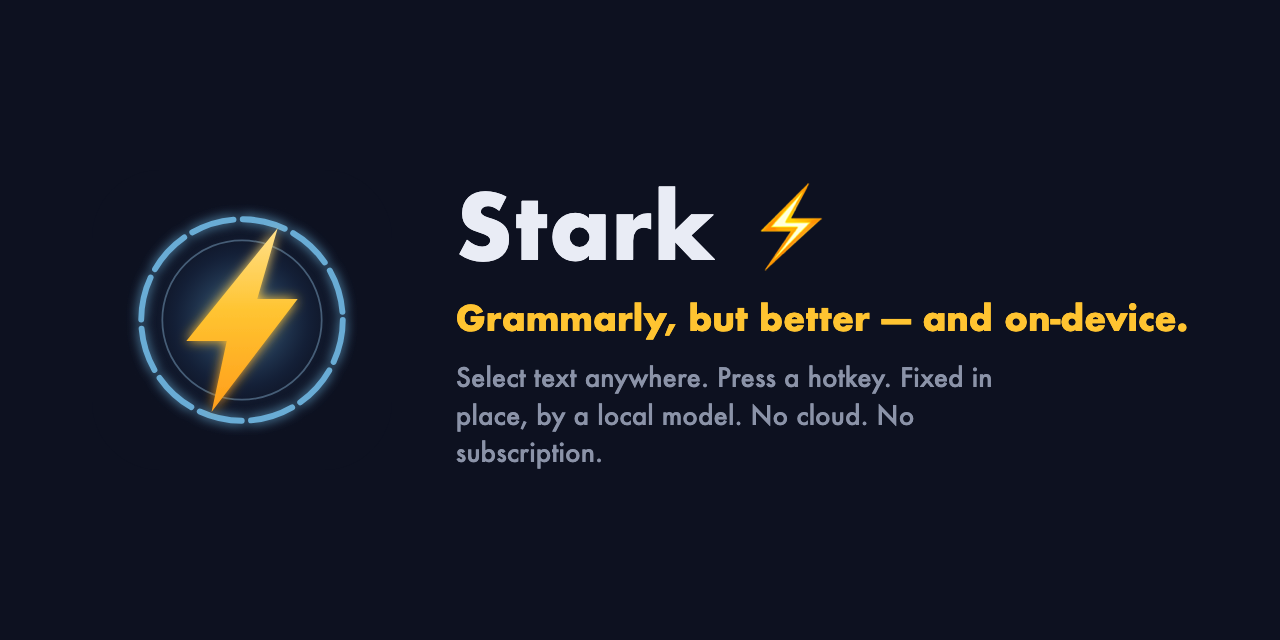
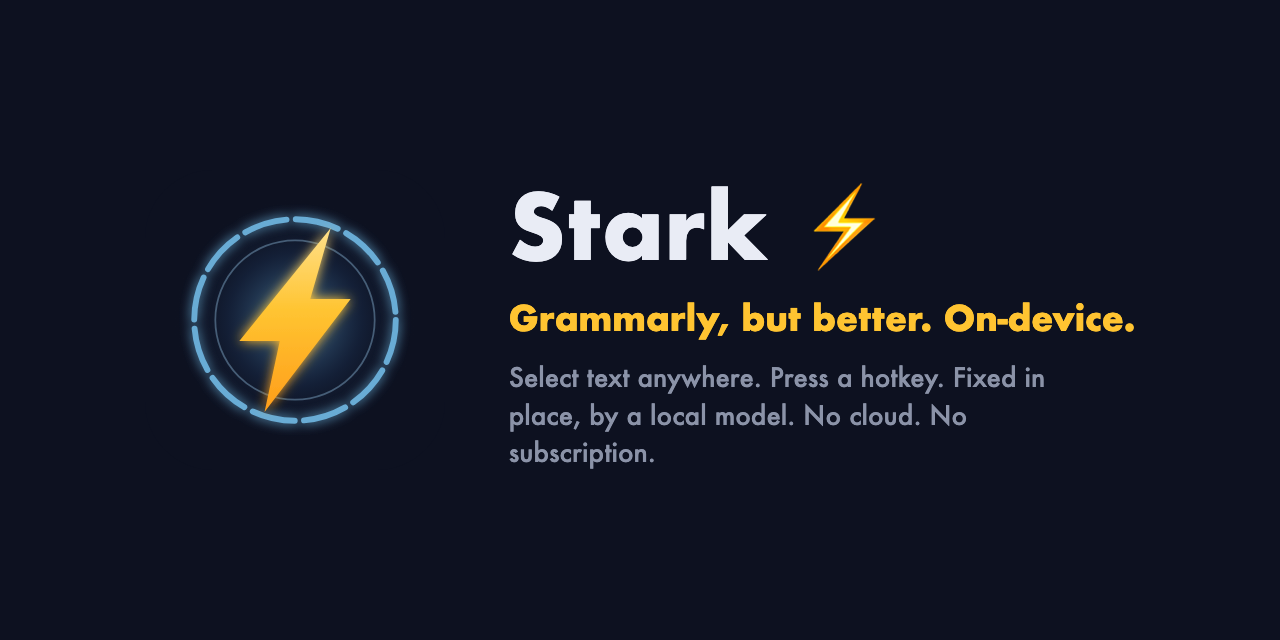
Docs: drop em-dashes, add a few jokes

diff --git a/README.md b/README.md
@@ -1,7 +1,7 @@
 <div align="center">
-  <img src="assets/logo.svg" width="170" alt="Stark logo — a gold bolt inside an arc-reactor ring">
+  <img src="assets/logo.svg" width="170" alt="Stark logo: a gold bolt inside an arc-reactor ring">
   <h1>Stark</h1>
-  <p><b>Grammarly, but better — and it never leaves your Mac.</b></p>
+  <p><b>Grammarly, but better. And it never leaves your Mac.</b></p>
   <p>
     <img alt="macOS 14+" src="https://img.shields.io/badge/macOS-14%2B-0d1120">
     <img alt="Swift" src="https://img.shields.io/badge/Swift-5-F05138?logo=swift&logoColor=white">
@@ -18,10 +18,10 @@ configuration.
 ## Why this exists
 
 Every mainstream writing assistant is a cloud service wearing a local UI. To
-fix a comma, it ships everything you type — investor updates, performance
-reviews, medical questions, the resignation letter you never sent — to
-servers you don't control, keeps it long enough to "improve the service", and
-bills you monthly for the privilege.
+fix a comma, it ships everything you type (investor updates, performance
+reviews, medical questions, the resignation letter you never sent) to servers
+you don't control, keeps it long enough to "improve the service", and bills
+you monthly for the privilege.
 
 A grammar checker shouldn't be a keylogger with good branding.
 
@@ -31,7 +31,7 @@ Stark is the counter-argument:
   Apple silicon, ~1 GB of RAM. Turn the Wi-Fi off; nothing changes.
 - **Instant.** ~0.1 s to first token. The rewrite lands before a cloud
   round-trip would have finished its TLS handshake.
-- **Yours.** MIT app, Apache-2.0 model, fully synthetic seeded dataset — the
+- **Yours.** MIT app, Apache-2.0 model, fully synthetic seeded dataset. The
   whole thing is reproducible end to end on one MacBook.
 - **Free.** Electricity sold separately.
 
@@ -39,13 +39,15 @@ Stark is the counter-argument:
 
 <img src="assets/demo.gif" width="100%" alt="Stark demo: a typo-filled sentence is selected, the hotkey is pressed, and the polished version replaces it in place">
 
-1. **Select text** — in any app.
-2. **Press the hotkey** — default ⌃⌥S, yours to change.
-3. **Done.** The rewrite lands where the text was. Your clipboard is untouched.
+1. **Select text.** Any app.
+2. **Press the hotkey** (default ⌃⌥S, yours to change).
+3. **Done.** The rewrite lands where the text was. Your clipboard is
+   untouched. Your secrets stay unshipped.
 
 Nothing selected? Stark works on your clipboard instead and lets you pick a
-style. First run: allow Accessibility (System Settings → Privacy & Security)
-— that's how the invisible copy/paste happens.
+style. First run: allow Accessibility (System Settings → Privacy & Security),
+which is how the invisible copy/paste happens. It's the only permission Stark
+asks for. There's no network permission because there's no network code.
 
 <details>
 <summary><b>Under the hood</b></summary>
@@ -58,10 +60,10 @@ sequenceDiagram
     participant Model as stark-1.5b<br/>127.0.0.1:8765
 
     You->>App: select text · press the hotkey
-    Stark->>App: invisible ⌘C — captures the selection
+    Stark->>App: invisible ⌘C (captures the selection)
     Stark->>Model: one-word style tag + your text
     Model-->>Stark: the rewrite, streaming
-    Stark->>App: invisible ⌘V — pastes over the selection
+    Stark->>App: invisible ⌘V (pastes over the selection)
     Note over You,Model: Clipboard restored. Nothing left the Mac.
 ```
 
@@ -75,16 +77,16 @@ sequenceDiagram
 | 2 | Concise | says the same thing in fewer words |
 | 3 | Formal | professional tone |
 | 4 | Friendly | warm, casual tone |
-| 5 | Fix typos | spelling only — never rephrases |
+| 5 | Fix typos | spelling only, never rephrases |
 | 6 | Bullets | turns prose into a markdown bullet list |
 | 7 | Prompt enhance | sharpens a vague LLM prompt into a precise one |
-| 8 | Expand | grows a terse note into a fuller message — same meaning, no invented facts |
+| 8 | Expand | grows a terse note into a fuller message: same meaning, no invented facts |
 
-The one-press rewrite uses your default style — pick it in the menu bar →
+The one-press rewrite uses your default style. Pick it in the menu bar →
 **Default Style** (`polish` out of the box). The rest live in the **Rewrite
 As** submenu (also one-shot when text is selected) and in the clipboard-mode
 picker. Styles can follow the app you're in: Slack can default to
-friendly-then-concise, Mail to formal, your editor to typos-only — see
+friendly-then-concise, Mail to formal, your editor to typos-only. See
 personas in the appendix.
 
 ## Suit up
@@ -93,15 +95,15 @@ personas in the appendix.
 git clone https://github.com/YoursSarcastically/stark.git ~/Stark
 cd ~/Stark
 
-# 1. The engine — download the fused model…
+# 1. The engine: download the fused model…
 pip install -U huggingface_hub
 hf download suraj10620/stark-1.5b --local-dir model/stark-1.5b
-#    …or forge your own from scratch (see appendix — one seeded script, ~3 min of training)
+#    …or forge your own from scratch (see appendix; one seeded script, ~3 min of training)
 
-# 2. The suit — build the app (needs Xcode command line tools)
+# 2. The suit: build the app (needs Xcode command line tools)
 cd app && ./make_app.sh
 
-# 3. Ignition
+# 3. Ignition (arc reactor optional; Apple silicon will do)
 open build/Stark.app
 ```
 
@@ -113,22 +115,22 @@ then select some text and press **⌃⌥S**.
 ## Why it's fast and small
 
 - The model is a 4-bit **Qwen2.5-1.5B** with a LoRA fine-tune baked in,
-  trained and fused on a MacBook — about **1 GB of RAM** while running.
+  trained and fused on a MacBook; about **1 GB of RAM** while running.
 - Each style is a **one-word system tag** (`polish`, `concise`, …), so
   there's almost no prompt to process and the model answers with the rewrite
-  only — no "Here's your polished text!" preamble to wait for.
+  only: no "Here's your polished text!" preamble to wait for.
 - The app itself is native Swift, ~400 KB, zero dependencies.
 
-A faster/smaller 0.5B variant is also trained (`model/adapters-0.5b`) — see
+A faster/smaller 0.5B variant is also trained (`model/adapters-0.5b`); see
 the appendix for switching.
 
 ## Where this is going
 
-Signed releases, custom user-trained styles, translate/summarize, a CLI —
+Signed releases, custom user-trained styles, translate/summarize, a CLI:
 the plan lives in [ROADMAP.md](ROADMAP.md).
 
 <details>
-<summary><b>Appendix — technical details</b></summary>
+<summary><b>Appendix: technical details</b></summary>
 
 ### Layout
 
@@ -143,7 +145,7 @@ Stark/
 │   ├── eval_stark.py        # held-out eval + latency/memory benchmark
 │   ├── aura_train.py        # optional: retrain on your own accepted rewrites
 │   ├── adapters-1.5b/       # LoRA adapter checkpoints (not in git)
-│   └── stark-1.5b/          # fused model the app serves (not in git — see below)
+│   └── stark-1.5b/          # fused model the app serves (not in git; see below)
 ├── server/run_server.sh     # standalone server (app normally manages this)
 └── app/                     # native Swift menu-bar app (SwiftPM)
     └── make_app.sh          # builds build/Stark.app
@@ -175,9 +177,9 @@ python -m mlx_lm fuse --model mlx-community/Qwen2.5-1.5B-Instruct-4bit \
 ### Model & training
 
 - Base: `mlx-community/Qwen2.5-1.5B-Instruct-4bit` (QLoRA on the quantized model).
-- Data: fully synthetic — hand-authored rewrite pairs per preset plus
+- Data: fully synthetic. Hand-authored rewrite pairs per preset plus
   programmatic typo-corruption for the `typos` preset. No customer data.
-- Training: `./train_stark.sh 1.5b` — 150 iters, lr 1e-4, batch 4, 16 layers,
+- Training: `./train_stark.sh 1.5b`: 150 iters, lr 1e-4, batch 4, 16 layers,
   checkpoint every 25 iters. The served model is the final adapter fused into
   a standalone model with `mlx_lm fuse` (the mlx_lm 0.31.3 server silently
   ignores `--adapter-path`, so fusing is required, not optional).
@@ -218,8 +220,8 @@ Optional `~/.stark/config.json` (all fields required if the file exists):
 `hotkey` is any combination of `cmd`/`ctrl`/`alt`/`shift` plus one letter or
 digit, e.g. `"cmd+shift+9"`. Invalid specs fall back to `ctrl+alt+s`.
 `preset` is the style tag used for one-shot in-place rewrites (`polish`,
-`concise`, `formal`, `friendly`, `typos`, `bullets`, `prompt`, or `expand`) —
-easier set from the menu bar → **Default Style**.
+`concise`, `formal`, `friendly`, `typos`, `bullets`, `prompt`, or `expand`).
+Easier: set it from the menu bar → **Default Style**.
 Per-app persona chains (e.g. Slack → friendly then concise) are configured in
 the onboarding flow (menu bar → Run Setup…) and stored under `personas`.
 
@@ -227,8 +229,8 @@ the onboarding flow (menu bar → Run Setup…) and stored under `personas`.
 
 The fine-tune was trained on short pairs, so a whole document in one request
 drops paragraphs and stops fixing typos past a few hundred words. The client
-therefore splits long inputs (>500 chars) into paragraph chunks — sentence
-groups for oversized paragraphs — rewrites each separately, and reassembles.
+therefore splits long inputs (>500 chars) into paragraph chunks (sentence
+groups for oversized paragraphs), rewrites each separately, and reassembles.
 Benchmarked on the M4: ~0.6 s per paragraph, ~1,000-word document in ~18 s
 with all paragraphs preserved.
 
@@ -238,8 +240,8 @@ On the hotkey, Stark captures the selection from the frontmost app with a
 synthetic ⌘C, streams the rewrite in the floating panel, then refocuses the
 app and pastes over the selection with a synthetic ⌘V. Your clipboard is
 saved and restored on both legs. Posting keystrokes requires Accessibility;
-the app is ad-hoc signed, so macOS drops that grant after every rebuild —
-re-toggle Stark in System Settings → Accessibility after `make_app.sh`.
+the app is ad-hoc signed, so macOS drops that grant after every rebuild.
+Re-toggle Stark in System Settings → Accessibility after `make_app.sh`.
 
 To use the faster 0.5B model, fuse `adapters-0.5b` the same way and point
 `model` at the fused `~/Stark/model/stark-0.5b`, then menu-bar → Restart
@@ -248,10 +250,10 @@ Server.
 ### App internals
 
 Pure AppKit/SwiftUI, no dependencies. Carbon `RegisterEventHotKey` for the
-global hotkey (the hotkey itself needs no Accessibility permission —
-only the ⌘C/⌘V posting for in-place mode does), `NSPanel` +
-`NSHostingView` for the picker, SSE streaming from the local server,
-`NSPasteboard` in/out. `LSUIElement` so there's no Dock icon.
+global hotkey (the hotkey itself needs no Accessibility permission; only the
+⌘C/⌘V posting for in-place mode does), `NSPanel` + `NSHostingView` for the
+picker, SSE streaming from the local server, `NSPasteboard` in/out.
+`LSUIElement` so there's no Dock icon.
 
 ### Credits
 

diff --git a/ROADMAP.md b/ROADMAP.md
@@ -1,6 +1,6 @@
 # Roadmap ⚡
 
-Where Stark is going. No dates — it ships when it works. Have an opinion?
+Where Stark is going. No dates; it ships when it works. Have an opinion?
 [Open an issue](https://github.com/YoursSarcastically/stark/issues).
 
 ## Shipped
@@ -15,8 +15,8 @@ Where Stark is going. No dates — it ships when it works. Have an opinion?
 
 ## Next
 
-- **Signed releases.** A Developer ID–signed, notarized `.app` on GitHub
-  Releases — install without building, and the Accessibility grant survives
+- **Signed releases.** A Developer ID signed, notarized `.app` on GitHub
+  Releases: install without building, and the Accessibility grant survives
   updates (ad-hoc builds lose it on every rebuild).
 - **Custom styles.** Record your own tag plus a handful of example pairs,
   retrain locally in minutes, get a ninth style that's entirely yours.
@@ -28,10 +28,11 @@ Where Stark is going. No dates — it ships when it works. Have an opinion?
 ## Later
 
 - **Low-power mode.** One toggle to swap to the 0.5B model when on battery.
-- **Translate & summarize styles** — same one-word-tag interface.
+  Same bolt, smaller arc reactor.
+- **Translate & summarize styles**, with the same one-word-tag interface.
 - **Rewrite history.** Opt-in, on-disk log of originals so any rewrite can be
   recovered days later, not just the last one.
-- **CLI.** `stark polish < draft.txt` — the same local server, scriptable.
+- **CLI.** `stark polish < draft.txt`: the same local server, scriptable.
 - **Multilingual.** The base model speaks more languages than the fine-tune
   currently allows; teach the styles to follow.
 
